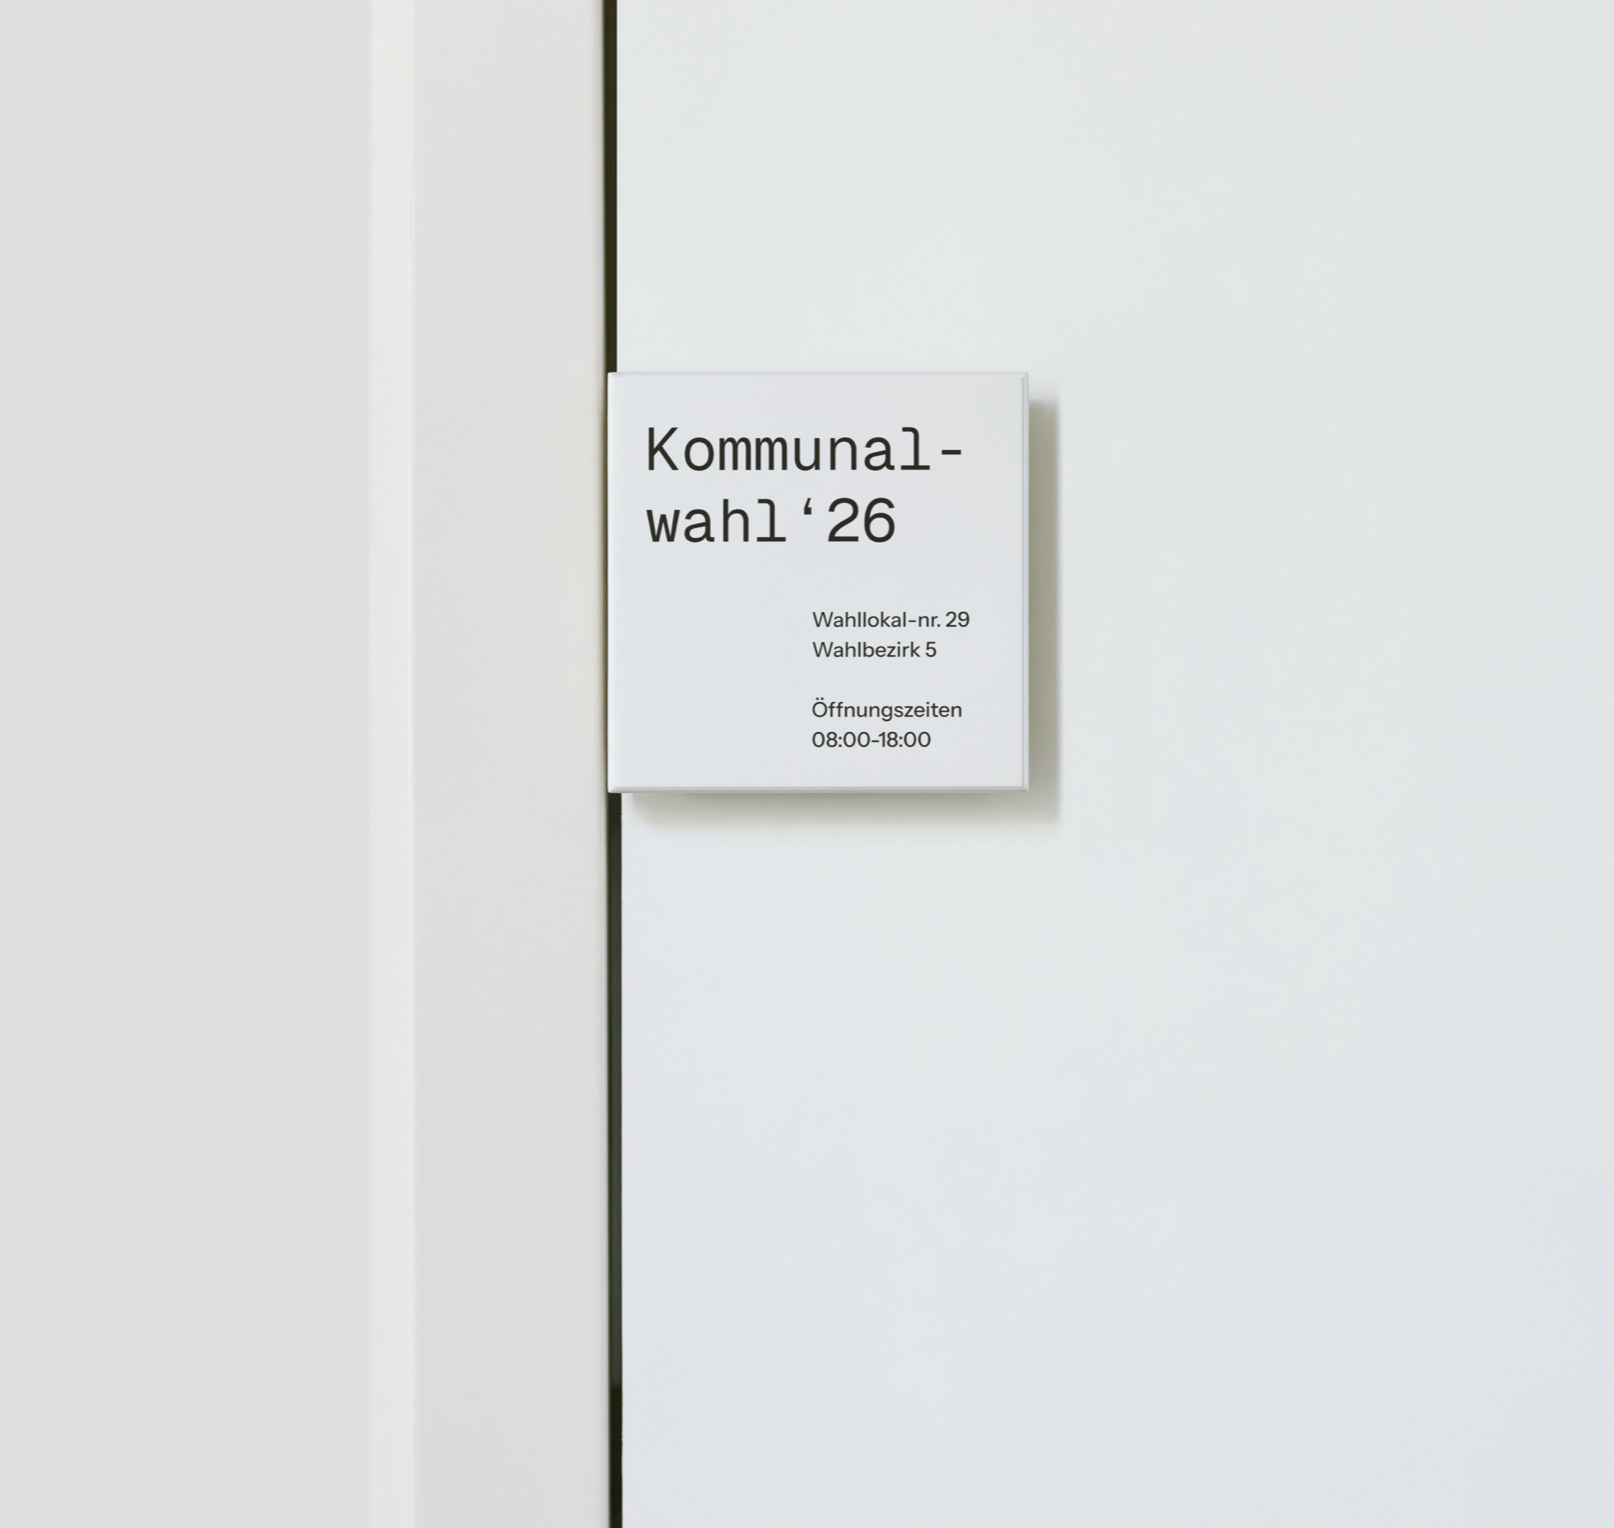
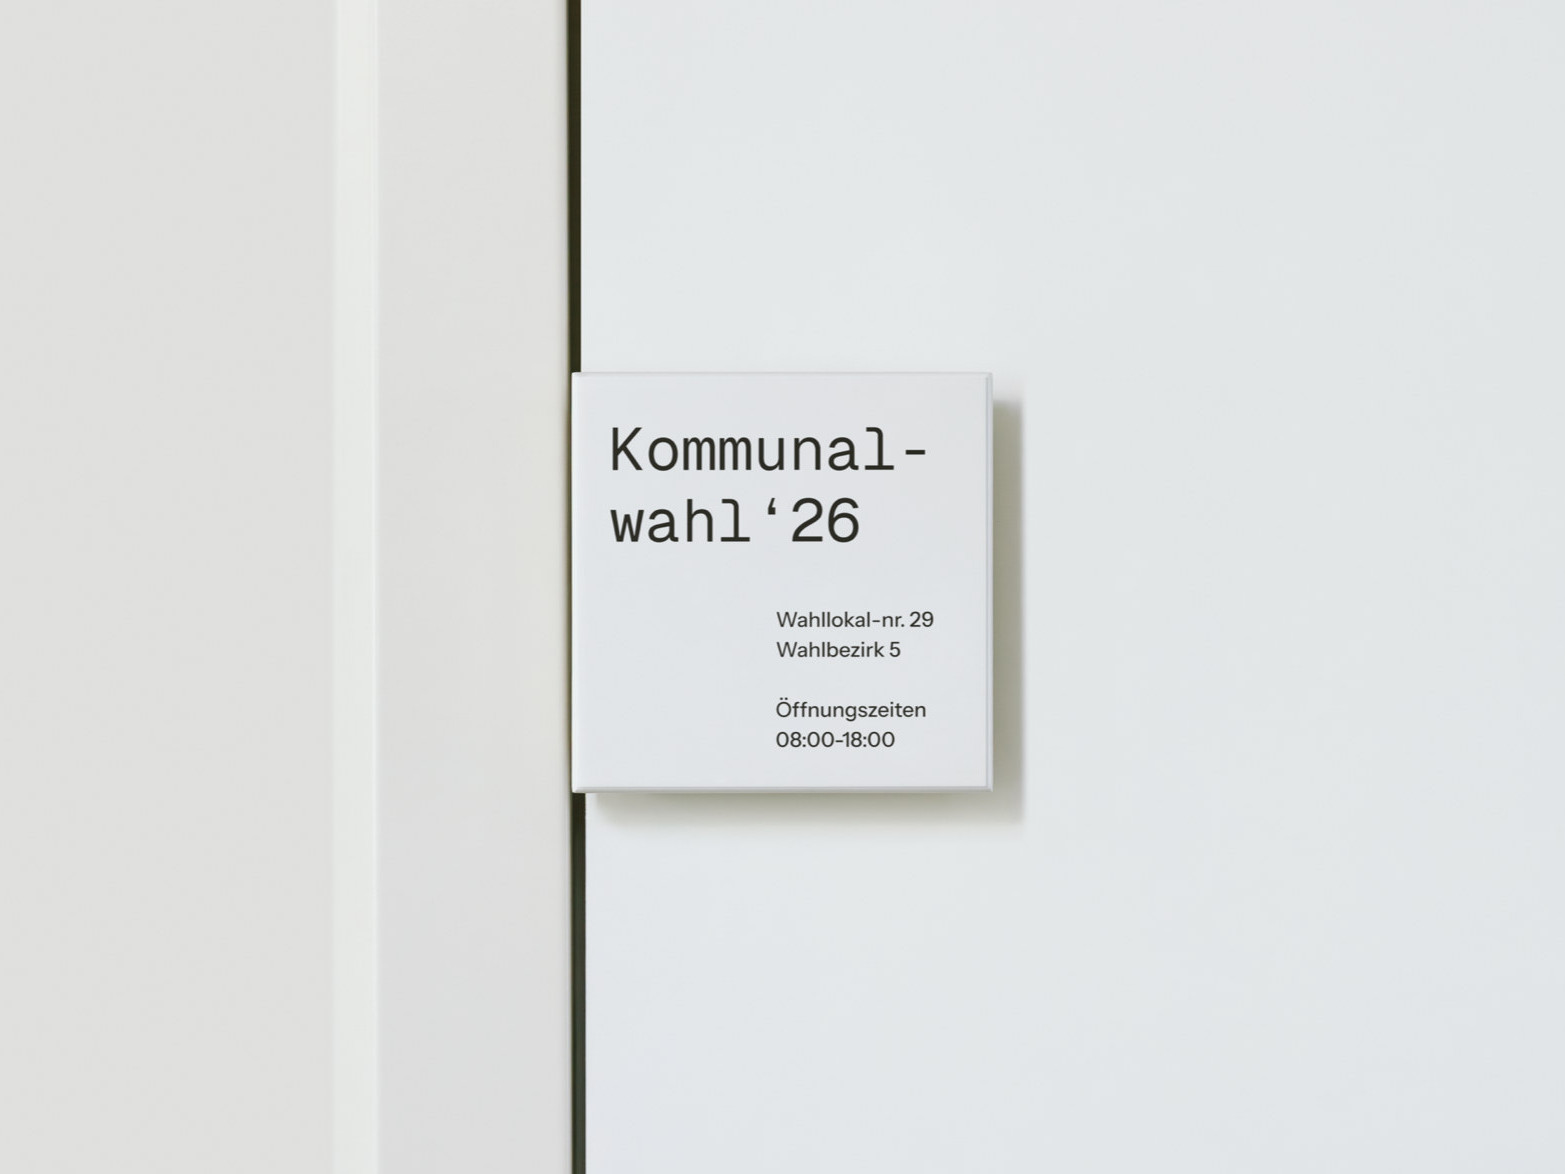
Intro copy, spacing, more-projects hover arrow, image crops
- Intro: reorder sectors, Audi instead of Audi AG, add product engineering line
- More space below name and below Resume/About separators
- Show more Projects: arrow slides in on hover
- HMI thumbnail: slight left-anchored zoom
- Car UX: stronger zoom on last gallery image
- Voteasy: landscape crop of sign image, square crop of research image
- Bump CSS cache-busting versions

Changed region(s): [[0.3374, 0.0, 0.6748, 1.0]]

diff --git a/index.html b/index.html
@@ -49,7 +49,7 @@
   <meta name="viewport" content="width=device-width, initial-scale=1.0" />
   <title>Johanna Ober · Design Portfolio</title>
   <link rel="icon" type="image/svg+xml" href="favicon.svg" />
-  <link rel="stylesheet" href="style.css?v=20261005y" />
+  <link rel="stylesheet" href="style.css?v=20261006a" />
 </head>
 <body>
 
@@ -82,9 +82,9 @@
         <div class="intro-id">
           <h1 class="hero-display">Johanna Ober</h1>
           <p class="intro-bio"
-             data-en="I am a German UX/UI Designer focused on Human-AI Interaction. Over the past eight years, I have worked across EdTech, automotive, the public sector and print media, with experience at companies like Audi AG."
-             data-de="Ich bin eine deutsche UX/UI Designerin mit Fokus auf Mensch-KI-Interaktion. In den letzten acht Jahren habe ich Erfahrung in den Bereichen EdTech, Automotive, dem öffentlichen Sektor und Printmedien gesammelt, unter anderem bei Unternehmen wie der Audi AG.">
-            I am a German UX/UI Designer focused on Human-AI Interaction. Over the past eight years, I have worked across EdTech, automotive, the public sector and print media, with experience at companies like Audi AG.
+             data-en="I am a German UX/UI Designer focused on Human-AI Interaction. Over the past eight years, I have worked across automotive, EdTech, the public sector and print media, with experience at companies like Audi. Currently expanding into product engineering."
+             data-de="Ich bin eine deutsche UX/UI Designerin mit Fokus auf Mensch-KI-Interaktion. In den letzten acht Jahren habe ich Erfahrung in den Bereichen Automotive, EdTech, dem öffentlichen Sektor und Printmedien gesammelt, unter anderem bei Unternehmen wie Audi. Aktuell erweitere ich meinen Schwerpunkt um Product Engineering.">
+            I am a German UX/UI Designer focused on Human-AI Interaction. Over the past eight years, I have worked across automotive, EdTech, the public sector and print media, with experience at companies like Audi. Currently expanding into product engineering.
           </p>
         </div>
       </div>
@@ -150,7 +150,7 @@
       </div>
 
       <div class="project-card">
-        <a href="project-6.html"><img loading="lazy" decoding="async" class="project-thumb" src="images/project-6-hmi-driving-simulation/project-6-1.jpg" alt="HMI for Driving Simulation" /></a>
+        <a href="project-6.html"><img loading="lazy" decoding="async" class="project-thumb project-thumb--zoom-left-sm" src="images/project-6-hmi-driving-simulation/project-6-1.jpg" alt="HMI for Driving Simulation" /></a>
         <div class="project-body">
           <p class="project-tags">
             <span>Automotive</span><span>HMI</span>

diff --git a/style.css b/style.css
@@ -335,7 +335,7 @@ h2 {
 #resume > h2 {
   padding-bottom: 1.5rem;
   border-bottom: 2px solid #000;
-  margin-bottom: 1.75rem;
+  margin-bottom: 2.5rem;
 }
 
 /* ── INTRO ────────────────────────────────────────── */
@@ -393,7 +393,7 @@ h2 {
 }
 
 .intro-id h1 {
-  margin-bottom: 0.6em;
+  margin-bottom: 0.8em;
   font-size: clamp(1.15rem, 1.7vw, 1.4rem);
   font-weight: 600;
   letter-spacing: -0.02em;
@@ -510,6 +510,26 @@ h2 {
   border-bottom-color: var(--accent);
 }
 
+/* Arrow slides in on hover; the link is right-aligned, so the text shifts left.
+   Pseudo-element because the language toggle replaces the link's innerHTML */
+.more-projects-link::after {
+  content: '→';
+  display: inline-block;
+  max-width: 0;
+  overflow: hidden;
+  vertical-align: bottom;
+  opacity: 0;
+  transition: max-width 0.5s cubic-bezier(0.22, 1, 0.36, 1),
+              padding-left 0.5s cubic-bezier(0.22, 1, 0.36, 1),
+              opacity 0.4s ease 0.05s;
+}
+
+.more-projects-link:hover::after {
+  max-width: 1.2em;
+  padding-left: 0.3em;
+  opacity: 1;
+}
+
 .projects-grid {
   display: grid;
   grid-template-columns: repeat(2, 1fr);
@@ -538,6 +558,12 @@ h2 {
 /* Same crop, but anchored to the left edge so the left side stays in view */
 .project-thumb--zoom-left {
   transform: scale(1.15);
+  transform-origin: left center;
+}
+
+/* Lighter left-anchored crop (HMI) */
+.project-thumb--zoom-left-sm {
+  transform: scale(1.08);
   transform-origin: left center;
 }
 
@@ -1094,7 +1120,7 @@ h2 {
 /* Second photo: floats above the main pair, flush with the right gutter */
 .profile-pair--second {
   position: absolute;
-  top: 1.5rem;
+  top: 2.5rem;
   right: 0;
   width: 21vw;
 }
@@ -1339,7 +1365,7 @@ h2 {
   #resume { padding-bottom: 2rem; }
   #profile { padding-top: 0.5rem; }
   /* Breathing room between the About separator line and the first photo */
-  #profile > h2 { margin-bottom: 1.5rem; }
+  #profile > h2 { margin-bottom: 2.5rem; }
 
   /* "And after work?" is styled like the section headings globally;
      just tighten the spacing below it on mobile */

diff --git a/projects.html b/projects.html
@@ -32,7 +32,7 @@
   <meta name="viewport" content="width=device-width, initial-scale=1.0" />
   <title>My Projects · Johanna Ober</title>
   <link rel="icon" type="image/svg+xml" href="favicon.svg" />
-  <link rel="stylesheet" href="style.css?v=20261005y" />
+  <link rel="stylesheet" href="style.css?v=20261006a" />
 </head>
 <body>
 
@@ -114,7 +114,7 @@
       </div>
 
       <div class="project-card" data-category="automotive ux">
-        <a href="project-6.html"><img loading="lazy" decoding="async" class="project-thumb" src="images/project-6-hmi-driving-simulation/project-6-1.jpg" alt="HMI for Driving Simulation" /></a>
+        <a href="project-6.html"><img loading="lazy" decoding="async" class="project-thumb project-thumb--zoom-left-sm" src="images/project-6-hmi-driving-simulation/project-6-1.jpg" alt="HMI for Driving Simulation" /></a>
         <div class="project-body">
           <p class="project-tags">
             <span>Automotive</span><span>HMI</span>

diff --git a/project-2.html b/project-2.html
@@ -15,8 +15,8 @@
   <meta name="viewport" content="width=device-width, initial-scale=1.0" />
   <title>Mobile-First Car UX · Johanna Ober</title>
   <link rel="icon" type="image/svg+xml" href="favicon.svg" />
-  <link rel="stylesheet" href="style.css?v=20261005y" />
-  <link rel="stylesheet" href="project.css?v=20261005y" />
+  <link rel="stylesheet" href="style.css?v=20261006a" />
+  <link rel="stylesheet" href="project.css?v=20261006e" />
 </head>
 <body class="alt-page">
 
@@ -142,7 +142,7 @@
   </div>
 
   <div class="alt-block alt-block--flip">
-    <div class="alt-block-image alt-block-image--zoom">
+    <div class="alt-block-image alt-block-image--zoom alt-block-image--zoom-more">
       <img loading="lazy" decoding="async" src="images/project-2-car-ux/project-2-cover.jpg" alt="Mobile-First Car UX: Solution &amp; Impact" />
     </div>
     <div class="alt-block-text">

diff --git a/project-10.html b/project-10.html
@@ -15,8 +15,8 @@
   <meta name="viewport" content="width=device-width, initial-scale=1.0" />
   <title>Voteasy Votecounter · Johanna Ober</title>
   <link rel="icon" type="image/svg+xml" href="favicon.svg" />
-  <link rel="stylesheet" href="style.css?v=20261005y" />
-  <link rel="stylesheet" href="project.css?v=20261005y" />
+  <link rel="stylesheet" href="style.css?v=20261006a" />
+  <link rel="stylesheet" href="project.css?v=20261006e" />
 </head>
 <body class="alt-page">
 
@@ -84,7 +84,7 @@
   </div>
 
   <div class="alt-block alt-block--flip">
-    <div class="alt-block-image">
+    <div class="alt-block-image alt-block-image--crop-square">
       <img loading="lazy" decoding="async" src="images/project-10-voteasy/project-10-3.jpg" alt="Voteasy Votecounter: Research" />
     </div>
     <div class="alt-block-text">

diff --git a/project.css b/project.css
@@ -191,6 +191,13 @@
   display: block;
 }
 
+/* Square crop of a tall image, trimmed top and bottom (Voteasy: Research, natively 2:3) */
+.alt-block-image--crop-square img {
+  aspect-ratio: 1 / 1;
+  object-fit: cover;
+  object-position: center 25%;
+}
+
 .alt-block-video {
   width: 100%;
   height: auto;
@@ -205,6 +212,11 @@
 .alt-block-image--zoom img {
   transform: scale(1.06);
   transform-origin: right center;
+}
+
+/* Stronger crop, same right anchor (Car UX: Solution & Impact) */
+.alt-block-image--zoom.alt-block-image--zoom-more img {
+  transform: scale(1.25);
 }
 
 /* A second, independent zoom amount/origin for a different image */

diff --git a/project-9.html b/project-9.html
@@ -15,8 +15,8 @@
   <meta name="viewport" content="width=device-width, initial-scale=1.0" />
   <title>Langenscheidt Language Coach · Johanna Ober</title>
   <link rel="icon" type="image/svg+xml" href="favicon.svg" />
-  <link rel="stylesheet" href="style.css?v=20261005y" />
-  <link rel="stylesheet" href="project.css?v=20261005y" />
+  <link rel="stylesheet" href="style.css?v=20261006a" />
+  <link rel="stylesheet" href="project.css?v=20261006e" />
 </head>
 <body class="alt-page">
 

diff --git a/project-6.html b/project-6.html
@@ -15,8 +15,8 @@
   <meta name="viewport" content="width=device-width, initial-scale=1.0" />
   <title>HMI for Driving Simulation · Johanna Ober</title>
   <link rel="icon" type="image/svg+xml" href="favicon.svg" />
-  <link rel="stylesheet" href="style.css?v=20261005y" />
-  <link rel="stylesheet" href="project.css?v=20261005y" />
+  <link rel="stylesheet" href="style.css?v=20261006a" />
+  <link rel="stylesheet" href="project.css?v=20261006e" />
 </head>
 <body class="alt-page">
 

diff --git a/project-1.html b/project-1.html
@@ -15,8 +15,8 @@
   <meta name="viewport" content="width=device-width, initial-scale=1.0" />
   <title>BIRD Education Platform · Johanna Ober</title>
   <link rel="icon" type="image/svg+xml" href="favicon.svg" />
-  <link rel="stylesheet" href="style.css?v=20261005y" />
-  <link rel="stylesheet" href="project.css?v=20261005y" />
+  <link rel="stylesheet" href="style.css?v=20261006a" />
+  <link rel="stylesheet" href="project.css?v=20261006e" />
 </head>
 <body class="alt-page">
 

diff --git a/project-8.html b/project-8.html
@@ -15,8 +15,8 @@
   <meta name="viewport" content="width=device-width, initial-scale=1.0" />
   <title>Little Food Fighters · Johanna Ober</title>
   <link rel="icon" type="image/svg+xml" href="favicon.svg" />
-  <link rel="stylesheet" href="style.css?v=20261005y" />
-  <link rel="stylesheet" href="project.css?v=20261005y" />
+  <link rel="stylesheet" href="style.css?v=20261006a" />
+  <link rel="stylesheet" href="project.css?v=20261006e" />
 </head>
 <body class="alt-page">
 

diff --git a/project-4.html b/project-4.html
@@ -15,8 +15,8 @@
   <meta name="viewport" content="width=device-width, initial-scale=1.0" />
   <title>AKKAdemy E-Learning · Johanna Ober</title>
   <link rel="icon" type="image/svg+xml" href="favicon.svg" />
-  <link rel="stylesheet" href="style.css?v=20261005y" />
-  <link rel="stylesheet" href="project.css?v=20261005y" />
+  <link rel="stylesheet" href="style.css?v=20261006a" />
+  <link rel="stylesheet" href="project.css?v=20261006e" />
 </head>
 <body class="alt-page">
 

diff --git a/project-7.html b/project-7.html
@@ -15,8 +15,8 @@
   <meta name="viewport" content="width=device-width, initial-scale=1.0" />
   <title>The Horror Mode · Johanna Ober</title>
   <link rel="icon" type="image/svg+xml" href="favicon.svg" />
-  <link rel="stylesheet" href="style.css?v=20261005y" />
-  <link rel="stylesheet" href="project.css?v=20261005y" />
+  <link rel="stylesheet" href="style.css?v=20261006a" />
+  <link rel="stylesheet" href="project.css?v=20261006e" />
 </head>
 <body class="alt-page">
 
